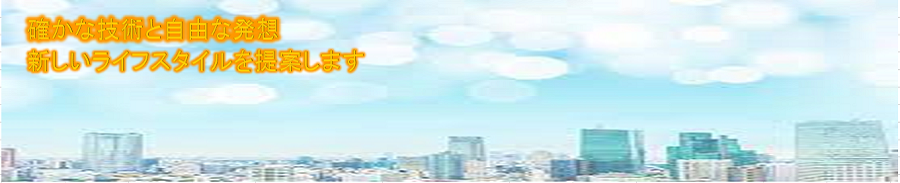
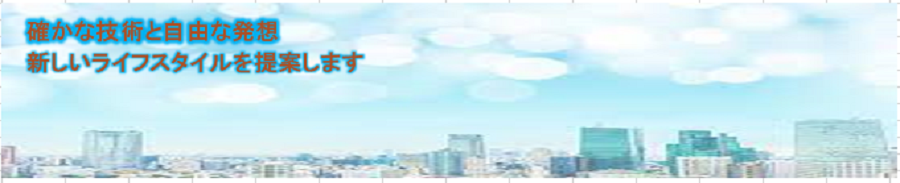
no message

diff --git a/docs/main_1Aa_2c.css b/docs/main_1Aa_2c.css
@@ -1288,7 +1288,7 @@ input.s{
 
     text-align: left;
 
-    color: #1F939F;
+    color: #9e9e9e;
 
     font-size: 1.5em;
 
@@ -1318,7 +1318,7 @@ input.s{
 
     text-align: left;
 
-    color: #1F939F;
+    color: #9e9e9e;
 
     font-size: 1.5em;
 

diff --git a/public/main_1Aa_2c.css b/public/main_1Aa_2c.css
@@ -1288,7 +1288,7 @@ input.s{
 
     text-align: left;
 
-    color: #1F939F;
+    color: #9e9e9e;
 
     font-size: 1.5em;
 
@@ -1318,7 +1318,7 @@ input.s{
 
     text-align: left;
 
-    color: #1F939F;
+    color: #9e9e9e;
 
     font-size: 1.5em;
 
